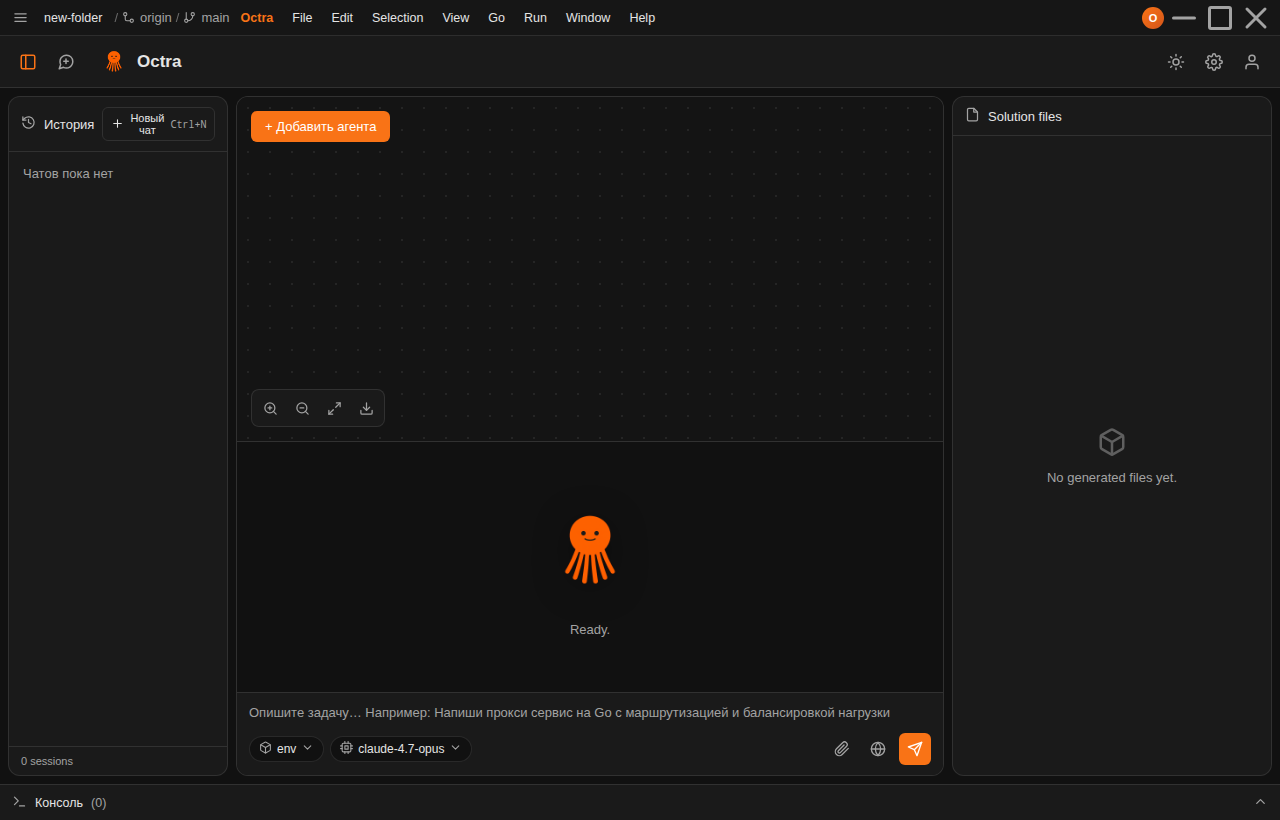
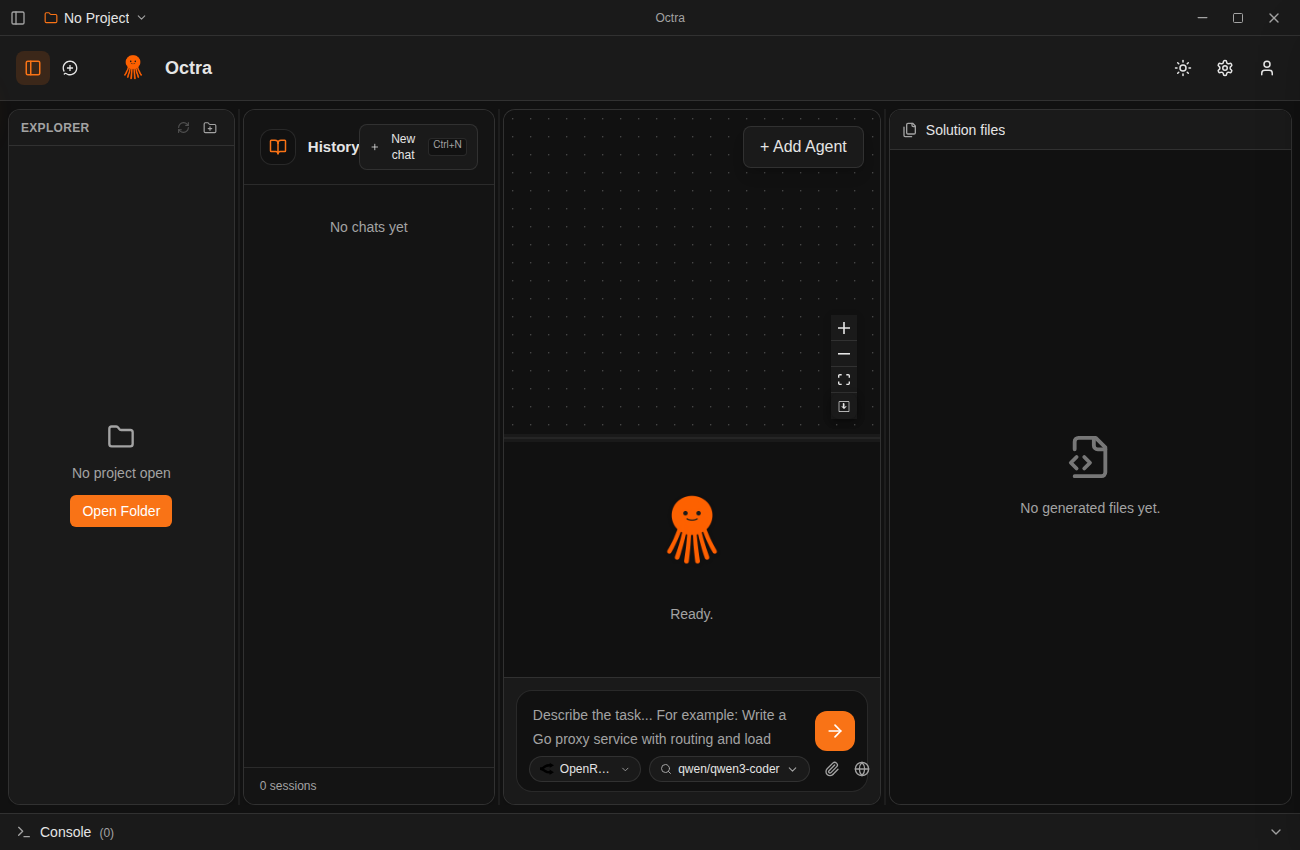
Fix Rules-of-Hooks crash that white-screened the app on auth change
App.tsx returned the landing / payment-success pages via early returns
placed in the MIDDLE of the component — before useWebSocket, the
useTaskStore selector and three useEffects. When isAuthenticated flipped
(e.g. on login) the rendered hook count changed and React threw
"Rendered fewer/more hooks than expected", blanking the whole app and the
Electron desktop shell that loads it.

Move both early returns below every hook so the hook order is stable, and
add check-app-render-guards.mjs to lock the invariant in. Also refresh the
desktop screenshots.

diff --git a/frontend/web/src/app/App.tsx b/frontend/web/src/app/App.tsx
@@ -112,20 +112,6 @@ export default function App() {
     currentChatIdRef.current = currentChatId;
   }, [currentChatId]);
 
-  // Определяем, показывать лендинг или приложение
-  const isLandingPage = window.location.pathname === '/' && !isAuthenticated;
-  const isPaymentSuccess = window.location.pathname === '/payment-success';
-
-  // Если мы на главной и не авторизован - показываем лендинг
-  if (isLandingPage) {
-    return <LandingPage />;
-  }
-
-  // Если успешная оплата - показываем страницу успеха
-  if (isPaymentSuccess) {
-    return <PaymentSuccess />;
-  }
-
   const persistChatMessage = (role: 'user' | 'boss', content: string) => {
     const chatId = currentChatIdRef.current;
     if (!chatId || !content.trim()) return;
@@ -511,6 +497,25 @@ export default function App() {
       console.error('Failed to load chat:', err);
     }
   };
+
+  // Determine whether to show the landing page or the app. These early returns
+  // MUST come after every hook above: React requires the same hooks to run in
+  // the same order on every render, so returning before later hooks (e.g. when
+  // `isAuthenticated` flips on login) would change the hook count and crash with
+  // "Rendered fewer/more hooks than expected" — white-screening the app, and the
+  // desktop shell that loads it.
+  const isLandingPage = window.location.pathname === '/' && !isAuthenticated;
+  const isPaymentSuccess = window.location.pathname === '/payment-success';
+
+  // On the home route while unauthenticated, show the landing page.
+  if (isLandingPage) {
+    return <LandingPage />;
+  }
+
+  // After a successful payment, show the success page.
+  if (isPaymentSuccess) {
+    return <PaymentSuccess />;
+  }
 
   return (
     <div className="h-full flex flex-col bg-[var(--background)] text-[var(--text)] overflow-hidden">
